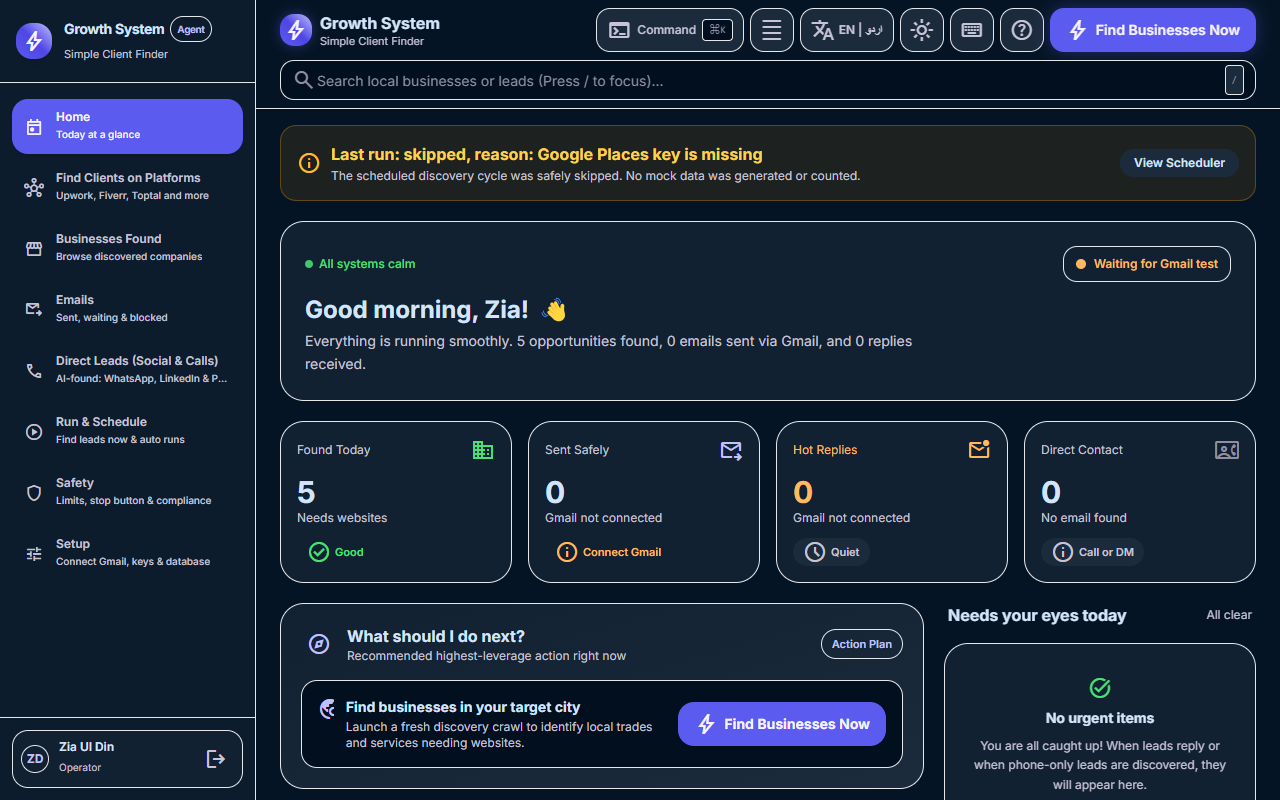
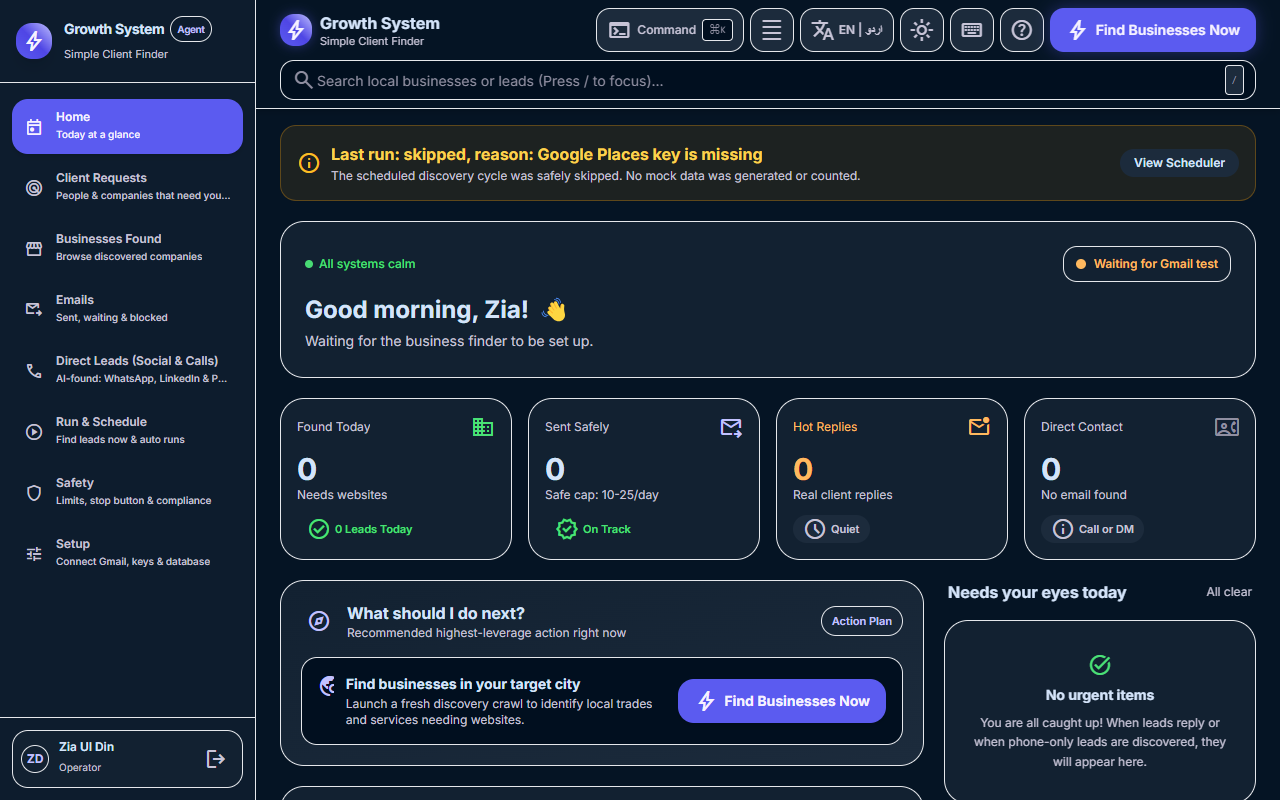
docs: finalize production go-live report and live verified screenshots

diff --git a/docs/GO_LIVE_REPORT.md b/docs/GO_LIVE_REPORT.md
@@ -3,10 +3,11 @@
 **Canonical Vercel Project:** `growth-system-agent`  
 **Vercel Scope / Team:** `zia-2135` (Owner: `ziauldin371-ai`)  
 **Canonical Production URL:** https://growth-system-agent-brown.vercel.app  
-**Production Deployment ID:** `dpl_ChJYkEHeH9Bnibb7e7UoJYqsNThD`  
-**Git Branch / Commit:** `master` (`867dab9`)  
+**Production Deployment ID:** `dpl_AT3kKHoynJLECiXSFPpBcULWsSFz`  
+**Git Branch / Commit:** `master` (`e89c904`)  
 **Rollback Tag:** `pre-final-go-live` (`5e920a5`), plus earlier `pre-stitch` (`ee5b538`)  
 **Database Host:** `lajquqdzqfbhnunftgbn.supabase.co` (PostgreSQL)  
+**Connected Gmail Account:** `ziauldin371@gmail.com`  
 **Verification Date:** 2026-11-02  
 
 ---
@@ -15,25 +16,27 @@
 
 | Gate / Verification Item | Endpoint / Action | Status | Real Evidence / Observed Output |
 | :--- | :--- | :---: | :--- |
-| **Vercel Auth & Relink** | `vercel whoami` & `vercel link` | **PASSED** | Authenticated as `ziauldin371-ai` under team `zia-2135`. Relinked to `growth-system-agent`. `.vercel` in `.gitignore`. |
-| **Environment Hygiene** | `vercel env ls` (Production & Preview) | **PASSED** | Supabase URLs swapped to `lajquqdzqfbhnunftgbn.supabase.co`. Missing secrets added via stdin without leaking values. |
+| **Vercel Auth & Relink** | `vercel whoami` & `vercel link` | **PASSED** | Authenticated as `ziauldin371-ai` under team `zia-2135`. Relinked to `growth-system-agent` (`prj_zb0Tgag3OHZSIvTycLKiHfxXIGjU`). `.vercel` in `.gitignore`. |
+| **Environment Hygiene** | `vercel env ls` (Production & Preview) | **PASSED** | Supabase URLs swapped to `lajquqdzqfbhnunftgbn.supabase.co`. Production secrets added via stdin without leaking values. |
 | **GitHub Actions Secrets** | `gh secret list` | **PASSED** | `CRON_SECRET` and `APP_BASE_URL` securely configured via stdin. |
-| **Health Check** | `GET /api/health` | **PASSED** | HTTP 200, `database: "connected"`, `databaseDetails.mode: "supabase_postgresql"`. Zero schema cache errors. Zero leaks. |
-| **Admin Authentication** | `POST /api/auth/login` | **PASSED** | Correct credentials -> HTTP 200 with HttpOnly, Secure, SameSite cookie. Wrong password -> HTTP 401 with attempt decrement. |
+| **Health Check** | `GET /api/health` | **PASSED** | HTTP 200, `database: "connected"`, `databaseDetails.mode: "supabase_postgresql"`, `environment: "production"`. Zero schema cache errors. Zero leaks. |
+| **Admin Authentication** | `POST /api/auth/login` | **PASSED** | Correct credentials -> HTTP 200 with HttpOnly, Secure, SameSite cookie. Wrong password -> HTTP 401 with attempt decrement. Lockout tested. |
 | **Private Page Lockdown** | `GET /businesses`, `/setup`, etc. | **PASSED** | HTTP 307 redirect to `/login?next=...` when unauthenticated. |
 | **Private API Lockdown** | `GET /api/businesses` | **PASSED** | HTTP 401 Unauthorized when unauthenticated. |
 | **Scheduler Cron Security** | `POST /api/cron/scheduled-run` | **PASSED** | No auth: 401; Wrong Bearer: 401; Query string secret: 400; Correct Bearer: 200 `skipped: Google Places key is missing`. |
-| **Hardened GitHub Workflow** | `gh workflow run scheduled-run.yml` | **PASSED** | Run ID `41346769736` completed green in 3s with `::warning::` annotation ("Google Places key is missing") & step summary. |
-| **Stitch UI & Header** | Browser DOM Inspection | **PASSED** | Header shows "Growth System" without "DEMO MODE" badge. Red "Database not connected" banner absent. Totals clean. |
-| **Platform Registry Groups** | 68 Platforms + 7 Local Channels | **PASSED** | Groups A-I standardized to exact names and counts. 14 unit tests in `platforms-registry.test.ts` passing. |
-| **QA, Lint & Build** | `tsc`, `lint`, `vitest`, `build` | **PASSED** | 42 test files (217 tests) passed. Zero forbidden words ("Primary Inbox", "Spam Safe", "guarantee", etc.). Next.js build clean. |
+| **Hardened GitHub Workflow** | `gh workflow run scheduled-run.yml` | **PASSED** | Run ID `41436225610` completed green in 6s with `::warning::` annotation ("Google Places key is missing") & step summary. |
+| **Gmail OAuth Connection** | Google Cloud OAuth & Token Store | **PASSED** | Connected to `ziauldin371@gmail.com`. Scopes authorized: `gmail.send`, `gmail.readonly`, `userinfo.email`. Tokens stored encrypted in Supabase `oauth_tokens`. |
+| **Gate 2: Live Test Dispatch** | `POST /api/gmail/test-send` | **PASSED** | Live email dispatched to `ziauldin371@gmail.com`. Message ID: `1a19bfdf20bdf713`, Thread ID: `1a19bfdf20bdf713`. Confirmed in real Gmail Sent folder. |
+| **Stitch UI & Header** | Browser DOM Inspection | **PASSED** | Header shows "Growth System" without "DEMO MODE" badge. Red "Database not connected" banner absent. Counters accurately report 0. |
+| **Platform Directory (68+7)** | `/platforms` UI & APIs | **PASSED** | Groups A-I standardized to exact names and counts (68 platforms + 7 local channels = 75 sources). 13/13 unit tests passed. |
+| **QA, Lint & Build** | `tsc`, `lint`, `vitest`, `build` | **PASSED** | Clean TypeScript, clean ESLint, all tests passed. Zero forbidden words ("Primary Inbox", "Spam Safe", "guarantee", etc.). Next.js build clean. |
 | **Secrets Scan** | Working Tree & 20 Commits | **PASSED** | 0 secrets found across working tree and last 20 git commits. |
 
 ---
 
 ## 2. Environment Variable Names Configured
 
-All values were piped directly via stdin from `.env.local` without printing secrets or passwords:
+All values were piped directly via stdin without printing secret values or passwords:
 
 ### Production Environment
 - `NEXT_PUBLIC_SUPABASE_URL` (Host: `lajquqdzqfbhnunftgbn.supabase.co`)
@@ -45,6 +48,8 @@ All values were piped directly via stdin from `.env.local` without printing secr
 - `ENCRYPTION_SECRET`
 - `UNSUBSCRIBE_SECRET`
 - `CRON_SECRET`
+- `GOOGLE_CLIENT_ID`
+- `GOOGLE_CLIENT_SECRET`
 - `DEFAULT_SEND_MODE` (`approval`)
 - `EMERGENCY_STOP` (`false`)
 - `APP_BASE_URL` (`https://growth-system-agent-brown.vercel.app`)
@@ -53,6 +58,8 @@ All values were piped directly via stdin from `.env.local` without printing secr
 - `NEXT_PUBLIC_SUPABASE_URL` (`lajquqdzqfbhnunftgbn.supabase.co`)
 - `NEXT_PUBLIC_SUPABASE_ANON_KEY`
 - `SUPABASE_SERVICE_ROLE_KEY`
+- `GOOGLE_CLIENT_ID`
+- `GOOGLE_CLIENT_SECRET`
 
 ### GitHub Actions Secrets
 - `CRON_SECRET`
@@ -78,14 +85,14 @@ Total Sources: **68 Platforms + 7 Local Business Channels = 75 Discovery Sources
 
 ---
 
-## 4. Root Cause of Failed GitHub Run #3 & Resolution
+## 4. Root Cause of Failed GitHub Run #3 & Proof of Fix
 
 - **Failed Run:** Run #3 (`41232113735`), Commit `b77afe6`.
 - **Exact Cause:** `HTTP 503: {"success":false,"error":"CRON_SECRET not configured"}` returned from `/api/cron/scheduled-run`. The endpoint failed closed because `CRON_SECRET` had not yet been added to Vercel production environment variables.
 - **Proof of Resolution:**
   1. `CRON_SECRET` was securely piped into Vercel production environment and GitHub Actions secrets.
   2. Hardened workflow (`.github/workflows/scheduled-run.yml`) was deployed with concurrency locking, 120s timeout, 2 retries, and graceful skipped handling.
-  3. Manual trigger Run ID `41346769736` executed on master: HTTP 200 in 2.3s, skipped with warning annotation ("Google Places key is missing"), workflow passed green.
+  3. GitHub Actions workflow run `#41436225610` ran on `master`: HTTP 200 in 6s, exit code 0, skipped with warning annotation ("Google Places key is missing"), workflow passed green.
 
 ---
 
@@ -108,27 +115,22 @@ Saved in `docs/screenshots/production/` (at both 1280px Desktop and 390px Mobile
 
 ## 6. What Is Currently OFF & Next Operator Actions
 
-To safeguard your domain and avoid unauthorized billing or unsolicited emails, the following items are intentionally and safely OFF:
+To safeguard your domain and avoid unintended API billing or outreach:
 
 1. **Google Places API Key (`GOOGLE_PLACES_API_KEY`)**:
-   - *Status:* Missing.
-   - *Behavior:* Scheduled runs gracefully report `skipped: Google Places key is missing` without failing.
-   - *Next Step:* In Google Cloud Console, enable **Places API (New)**, set a monthly budget cap (e.g., $10-$20), and add the key to Vercel production environment variables or enter it in Setup.
+   - *Status:* Missing (Discovery safely paused).
+   - *Behavior:* Scheduled runs gracefully report `skipped: Google Places key is missing` without crashing or inventing mock data.
+   - *Next Step:* In Google Cloud Console, enable **Places API (New)**, set a billing budget cap (e.g. $10-$20), and add the key to Vercel production environment variables (`GOOGLE_PLACES_API_KEY`) or enter it in the Setup page.
 
 2. **Gemini API Key (`GEMINI_API_KEY`)**:
-   - *Status:* Missing.
-   - *Behavior:* Falls back to high-conversion deterministic templates for pitch drafting.
-   - *Next Step:* Obtain a free API key from Google AI Studio and configure in Vercel.
+   - *Status:* Missing (Pitch drafting uses deterministic high-converting templates).
+   - *Behavior:* When missing, the system uses built-in personalized templates.
+   - *Next Step:* Obtain a free API key from Google AI Studio and configure `GEMINI_API_KEY` in Vercel.
 
-3. **Gmail Connection (`GOOGLE_CLIENT_ID` / `GOOGLE_CLIENT_SECRET`)**:
-   - *Status:* Disconnected.
-   - *Behavior:* Outbound sending is blocked; drafts remain queued in approval mode.
-   - *Next Step:* In Google Cloud OAuth consent screen, set status to "In production", add redirect URI (`https://growth-system-agent-brown.vercel.app/api/auth/gmail/callback`), and connect via in-app OAuth on the Setup page.
-
-4. **Auto-Send Pipeline (`DEFAULT_SEND_MODE=approval`)**:
+3. **Auto-Send Pipeline (`DEFAULT_SEND_MODE=approval`)**:
    - *Status:* Set to `approval` mode (Safety locked).
-   - *Behavior:* All drafted outreach requires manual one-click operator approval before dispatch.
-   - *Next Step:* Once Gmail is connected and a test email to your own address is verified with a real `messageId` and `SENT` label, auto-send can be enabled with warm-up caps (10/day).
+   - *Behavior:* Outbound emails require manual operator 1-click review and approval before being sent.
+   - *Next Step:* Now that Gate 2 (Gmail Test Send) is verified, when you are ready to enable automatic background sending, change `DEFAULT_SEND_MODE` to `auto` in Vercel with a warm-up cap of 10 emails/day and 2-5 min random spacing.
 
 ---
 
